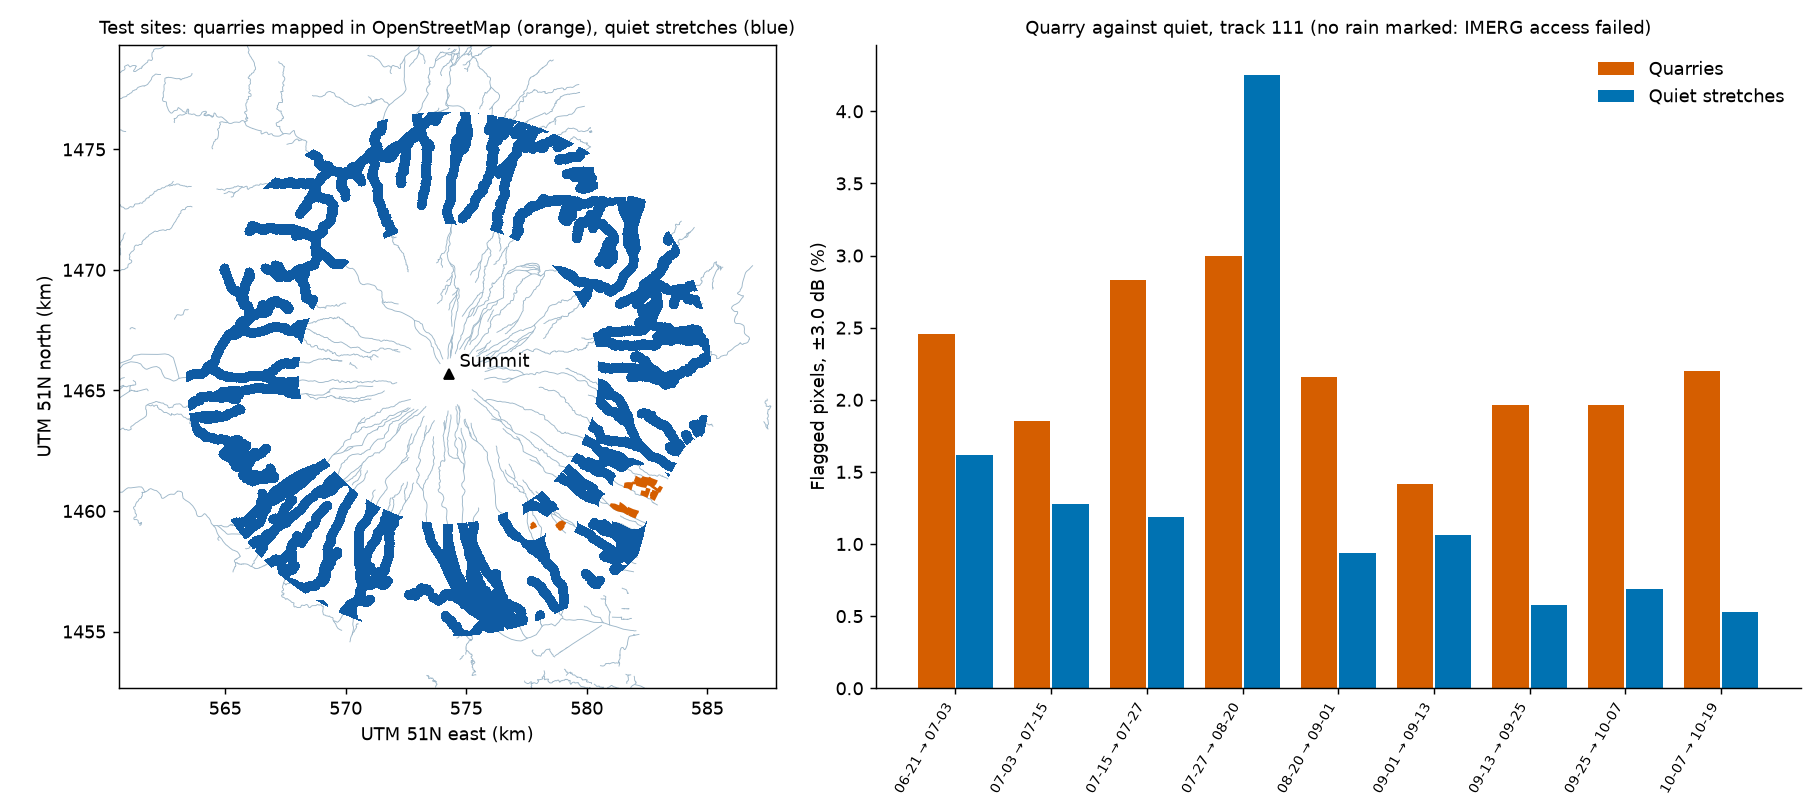
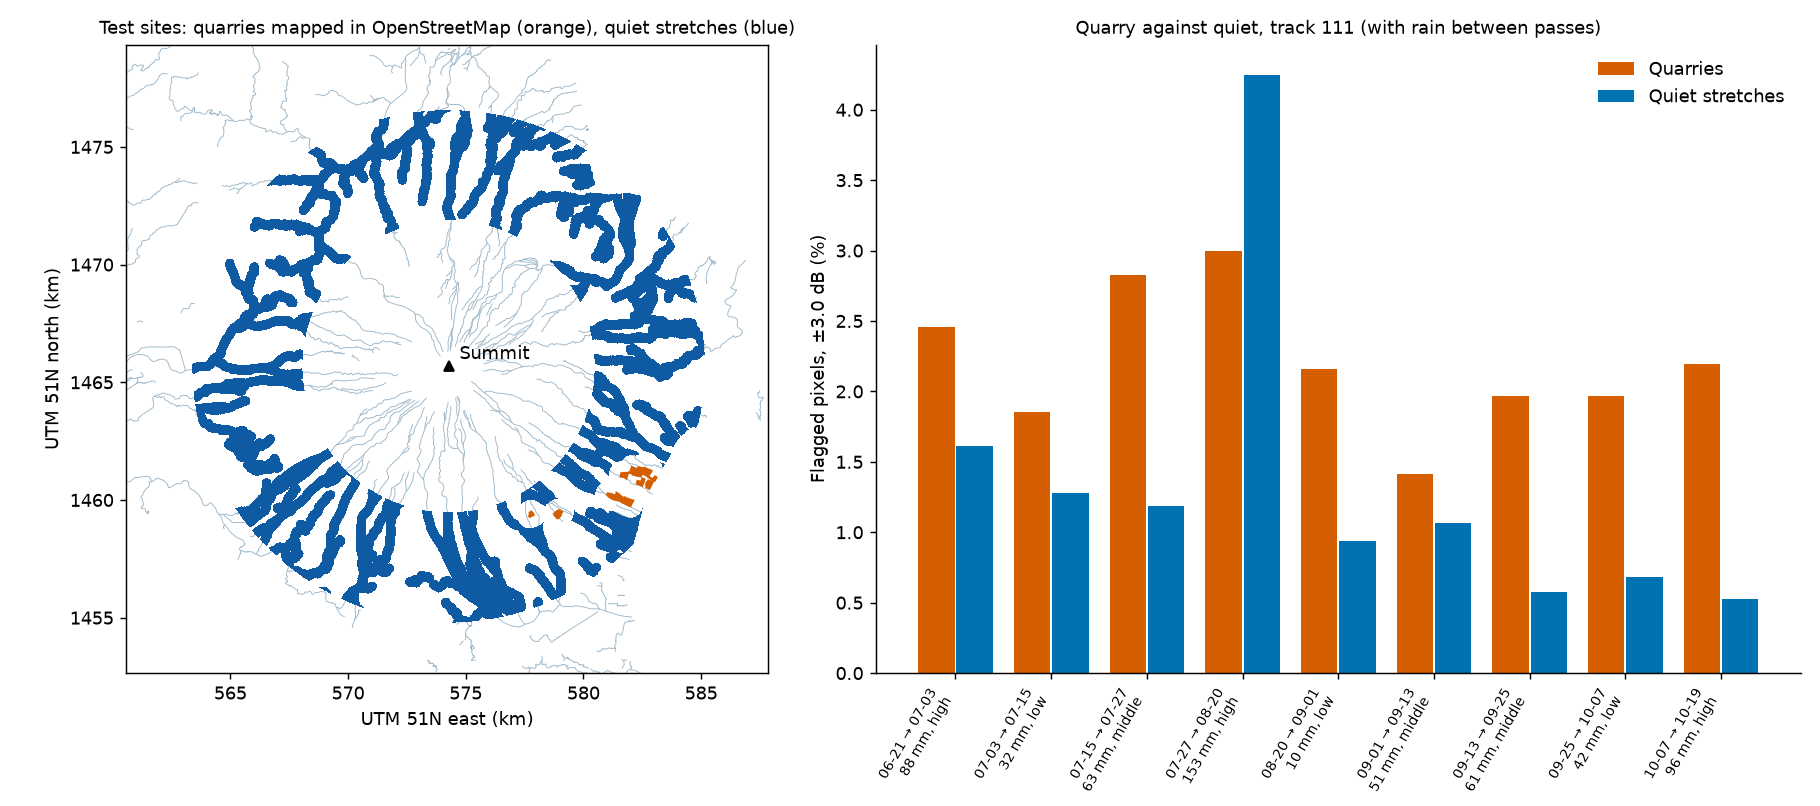
T-047: add the rain rerun results to the channel test
Verdict unchanged. The owner raised the rain download limit to 1.75 GB for this fetch.

diff --git a/pipeline/reports/channel_test_inputs.py b/pipeline/reports/channel_test_inputs.py
@@ -9,7 +9,7 @@ contributors, ODbL. Place names are saved beside them, because the table in the 
 
 `rain` reads only the Mayon part of each daily IMERG file, by asking the server for pieces of
 the file (ranged reads), and keeps the small result in raw/. Every byte is counted, and it stops
-before going over the plan's 1.5 GB limit.
+before going over the rain download limit.
 """
 import json
 import sys
@@ -40,7 +40,7 @@ RAIN_SHORT_NAME = "GPM_3IMERGDL"
 # midnight to midnight UTC, so the day of a first pass is left out: it was nearly over.
 FIRST_RAIN_DAY = date(2026, 6, 22)
 LAST_RAIN_DAY = date(2026, 10, 19)
-RAIN_BYTE_LIMIT = 1_500_000_000
+RAIN_BYTE_LIMIT = 1_750_000_000  # the owner raised it from 1.5 GB on 2026-11-01
 OSM_NOTE = "CANDIDATE only, not checked by hand. Data (c) OpenStreetMap contributors, ODbL."
 
 

diff --git a/pipeline/reports/channel-test.md b/pipeline/reports/channel-test.md
@@ -4,7 +4,7 @@
 
 The rule was fixed before the numbers, and it is applied as written. Please don't read GO as "radar sees quarrying". It says quarry polygons change more often than quiet channel stretches. It doesn't say why, and dropping either of two single quarries brings the count down to 4 of 9.
 
-Rain could not be tested: NASA's server refused the IMERG files (Part B).
+Rain was added afterwards (see "Rain rerun"): the quarry ratio reaches 2.0 in 2 of the 3 low-rain pairs, and no pair meets the heavy-rain rule. It doesn't change the verdict.
 
 ## What to check by eye on Sunday
 
@@ -76,7 +76,7 @@ The other viewing direction agrees on both pairs it has, and both are above 2.0.
 
 ## Part B: rain between passes
 
-**Skipped, because access failed.** The search worked and confirmed the product: `GPM_3IMERGDL`, version 07, with 120 files for 06-22 to 10-19 (the files are V07C). Reading the first file then returned `403 Forbidden` from `data.gesdisc.earthdata.nasa.gov`. **0 bytes were downloaded** of the 1.5 GB limit.
+**This records the first attempt, and "Rain rerun" below replaces it.** Skipped, because access failed. The search worked and confirmed the product: `GPM_3IMERGDL`, version 07, with 120 files for 06-22 to 10-19 (the files are V07C). Reading the first file then returned `403 Forbidden` from `data.gesdisc.earthdata.nasa.gov`. **0 bytes were downloaded** of the 1.5 GB limit.
 
 | Asked for | Result |
 | --- | --- |
@@ -127,8 +127,8 @@ All 9 pairs are at 1.5 or more. That holds for brighter, darker, 4.0 dB, 5.0 dB 
 ## What it means for Channel Watch
 
 - **The go-ahead is real but thin.** It clears the fixed bar with nothing to spare, and two single quarries can each undo it. Treat it as "worth a closer look", not as proof.
-- **The signal isn't shown to be digging.** Quarry polygons are the barest ground in the test (16% bare against 2%). Bare gravel may respond more to moisture than vegetated banks, and without rain data or known digging dates, this test can't separate the two.
-- **The later pairs carry it.** The last three are the strongest (2.87–4.18), while the two pairs before mid-July, the 24-day pair and 09-01 → 09-13 aren't at 2.0. I can't say why without rain.
+- **The signal isn't shown to be digging.** Quarry polygons are the barest ground in the test (16% bare against 2%). Bare gravel may respond more to moisture than vegetated banks. The ratio holding in 2 of 3 low-rain pairs leans against rain alone, but without known digging dates, this test can't separate the two.
+- **The later pairs carry it.** The last three are the strongest (2.87–4.18), while the two pairs before mid-July, the 24-day pair and 09-01 → 09-13 aren't at 2.0. Rain doesn't explain this pattern.
 - **A stricter threshold separates better.** The count rises from 5 at 3.0 dB to 7 at 4.0 dB and 8 at 5.0 dB, and the site's current rule falls to 4, so a quarry layer probably shouldn't reuse that rule as it stands.
 - **Coverage is the bigger gap.** Six of the 8 quarries are in one cluster near Padang, none is near Budiao or Maninila, and the owner's own sites would be a much better test than these.
 
@@ -143,31 +143,39 @@ All 9 pairs are at 1.5 or more. That holds for brighter, darker, 4.0 dB, 5.0 dB 
 
 ## Rain rerun
 
-**Blocked again, so there are no rain results yet.** The first read of the rerun also returned 403, and this time I read the server's reason: `EULA Acceptance Failure`. The Earthdata login itself works. NASA's terms for this data archive haven't been accepted on the account. Accepting them is the owner's decision, so I didn't do it, and I didn't use another rain source. **0 bytes of rain data were read** of the 1.5 GB limit, apart from the server's short refusal messages.
+**The quarry ratio partly holds in the low-rain pairs: 2 of the 3 reach 2.0. No pair meets the heavy-rain rule, so this test says nothing about how channels respond to heavy rain.** The verdict stays GO at 5 of 9, because rain is report-only.
 
-| Asked for | Result |
-| --- | --- |
-| Rain per pair, wettest day, low/middle/high | Not available |
-| Heavy rain: any 3 consecutive days in a pair's window totalling 100 mm or more | Not available. The rule is now in `channel_test.py`, tested on made-up numbers only |
-| Oct 8 → Oct 20: unusually wet or dry? | **Still unanswered** |
-| Does the quarry ratio hold in low-rain pairs? | **Still not tested** |
+Rain is NASA GPM IMERG Late Run daily (`GPM_3IMERGDL`, version 07, V07C files), for all 120 days from 06-22 to 10-19, averaged over the channel strips. A pair's window runs from the day after its first pass through the day of its second, because the passes are at about 21:13 UTC.
 
-The verdict above doesn't change either way, because rain is report-only.
+| Pair (UTC) | Days | Total (mm) | mm per day | Wettest day (mm) | Wettest 3 days (mm) | Heavy rain? | Third | Quarry ratio |
+| --- | --- | --- | --- | --- | --- | --- | --- | --- |
+| 06-21 → 07-03 | 12 | 88.5 | 7.4 | 06-29 (27.9) | 50.5 | No | High | 1.52 |
+| 07-03 → 07-15 | 12 | 32.3 | 2.7 | 07-09 (7.7) | 19.0 | No | **Low** | 1.45 |
+| 07-15 → 07-27 | 12 | 62.7 | 5.2 | 07-22 (11.7) | 30.0 | No | Middle | **2.38** |
+| 07-27 → 08-20 | 24 | 152.7 | 6.4 | 08-08 (21.6) | 45.5 | No | High | 0.70 |
+| 08-20 → 09-01 | 12 | 9.6 | 0.8 | 08-29 (3.3) | 7.0 | No | **Low** | **2.31** |
+| 09-01 → 09-13 | 12 | 51.4 | 4.3 | 09-06 (10.8) | 20.9 | No | Middle | 1.33 |
+| 09-13 → 09-25 | 12 | 61.2 | 5.1 | 09-21 (13.4) | 28.6 | No | Middle | **3.40** |
+| 09-25 → 10-07 | 12 | 41.6 | 3.5 | 10-05 (12.4) | 18.8 | No | **Low** | **2.87** |
+| 10-07 → 10-19 | 12 | 95.5 | 8.0 | 10-15 (16.1) | 31.8 | No | High | **4.18** |
 
-To finish it, the owner opens NASA's approval page, signed in to Earthdata, and accepts the terms: <https://urs.earthdata.nasa.gov/approve_app?client_id=e2WVk8Pw6weeLUKZYOxvTQ> (this link is the one in the server's reply). Then:
+Heavy rain means any 3 consecutive days in a pair's window totalling 100 mm or more, the owner's rule. The thirds are by total, as the plan says. Ranking by mm per day gives the same thirds, so the 24-day pair's length doesn't change them.
 
-```powershell
-python pipeline/reports/channel_test_inputs.py rain
-python pipeline/reports/channel_test.py
-```
+- **Low-rain check:** 2 of 3 pairs reach 2.0 (1.45, 2.31, 2.87). Pairs reaching 2.0 by third: low 2 of 3, middle 2 of 3, high 1 of 3.
+- **What that means for the gravel doubt:** the signal doesn't need much rain, because the driest pair (9.6 mm) still reaches 2.31. That leans against rain alone explaining it, but three pairs can't settle it. Wetter pairs don't clearly score higher: the wettest rate (10-07 → 10-19) has the highest ratio, and the 24-day pair has the lowest.
+- **Oct 8 → Oct 20 (10-07 → 10-19 UTC):** on the wet side, but not extreme. It has the highest daily rate of the 9 pairs (8.0 mm a day), and its 95.5 mm total is second only to the 24-day pair. Its wettest 3 days total 31.8 mm, well short of heavy rain. This compares it only with these 9 pairs, not with a long-term normal.
+- **Heavy rain:** the closest pair reached 50.5 mm in 3 days, half the limit. Channel Watch's behaviour after heavy rain is untested.
 
-The results then land in `channel-test.json` under `rain_by_pair` and `low_rain_check`, and the figure gains the rain labels.
+**Limits:** IMERG is a satellite estimate with cells of about 10 km, and it wasn't compared with rain gauges. It can miss rain on a steep volcano, so the totals may be low, and the 100 mm rule may not read the same on this product as on a gauge.
+
+**Download:** 1.699 GB. That is over the plan's 1.5 GB limit: the first run stopped at the limit on 10-03, and the owner raised it to 1.75 GB for the rain fetch only. Only days inside the pair windows were read.
 
 ## Data used
 
 - NISAR GCOV and GUNW: cached crops in `raw/` only, the latest dated 2026-10-19. No NISAR product was searched for, downloaded or opened beyond those.
 - OpenStreetMap quarries, places and waterways: © OpenStreetMap contributors, ODbL.
 - ESA WorldCover 2021, the false-alarm study's cached copy: CC BY 4.0.
+- NASA GPM IMERG Late Run daily, `GPM_3IMERGDL` version 07, read from NASA GES DISC. The small Mayon extract is kept in `raw/imerg/`.
 
 To reproduce:
 

diff --git a/NIGHT_REPORT.md b/NIGHT_REPORT.md
@@ -543,10 +543,10 @@ The full report is [pipeline/reports/channel-test.md](pipeline/reports/channel-t
 **Verdict: GO, by the smallest possible margin.** The quarry-to-quiet ratio reached 2.0 in exactly 5 of 9 track 111 pairs at 3.0 dB combined. Leaving out either of two single quarries makes it 4 of 9, and the test can't say whether the change is digging or bare gravel responding to the weather.
 
 - **Part A:** OpenStreetMap has 8 quarries (77.81 ha), all kept. Six are near Padang, and none is near Budiao or Maninila. Check them by eye in `pipeline/context/channel_test_sites.kml`.
-- **Part B: skipped.** NASA's server refused the IMERG files with a 403, so the Oct 8 → Oct 20 rain question and the low-rain check are still open. The report says how to retry.
+- **Part B: skipped on the first attempt.** NASA's server refused the IMERG files with a 403. "Rain rerun" below has the results.
 - **Part C:** the channel-to-land ratio reached 1.5 in 9 of 9 pairs, but a strip mask would keep 53–62% of the 10 km circle's flagged area while already covering 51% of its land.
 
-**Downloads:** IMERG rain 0 bytes of the 1.5 GB limit. OpenStreetMap quarries and places were two small Overpass queries. NISAR nothing.
+**Downloads:** IMERG rain 0 bytes on the first attempt (see "Rain rerun" below). OpenStreetMap quarries and places were two small Overpass queries. NISAR nothing.
 
 **No NISAR product was searched for or opened** beyond the cached crops already in `raw/`, the latest dated 2026-10-19. `site/`, the site config, `classify.py`, the thresholds and `docs/` are unchanged on `night-1`, and nothing was merged into `main`. `docs/NIGHT_PLAN_4.md` is still untracked, because the plan says not to change `docs/`.
 
@@ -556,4 +556,4 @@ The full report is [pipeline/reports/channel-test.md](pipeline/reports/channel-t
 
 **Final evidence:** `pytest -q` on `night-1`: 344 passed, 6 skipped. Contract check: 0 errors on `site/data`.
 
-**Rain rerun: blocked, no rain results.** NASA's server refused IMERG again (403, `EULA Acceptance Failure`), so 0 bytes of rain data were read, and the low-rain check and the 100 mm heavy-rain rule have no results yet. The owner needs to accept the terms; the steps are under "Rain rerun" in [pipeline/reports/channel-test.md](pipeline/reports/channel-test.md). No NISAR product was searched for or opened.
+**Rain rerun: the quarry ratio reaches 2.0 in 2 of the 3 low-rain pairs, and no pair meets the heavy-rain rule** (100 mm in 3 days; the most was 50.5 mm), so the verdict stays GO and heavy rain is untested. Oct 8 → Oct 20 was on the wet side but not extreme: 95.5 mm, the highest daily rate of the 9 pairs. Rain download: 1.699 GB, after the owner raised the limit from 1.5 to 1.75 GB for this fetch. No NISAR product was searched for or opened. Details are under "Rain rerun" in [pipeline/reports/channel-test.md](pipeline/reports/channel-test.md).
